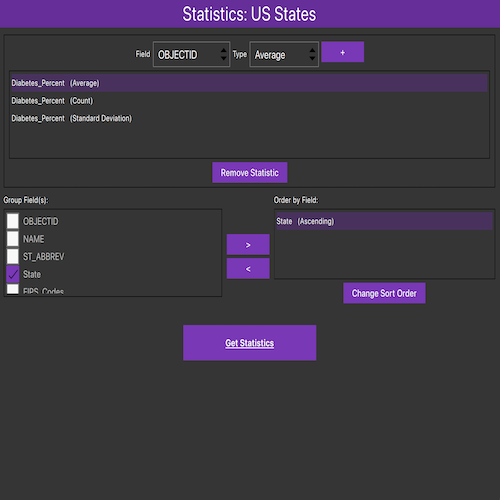
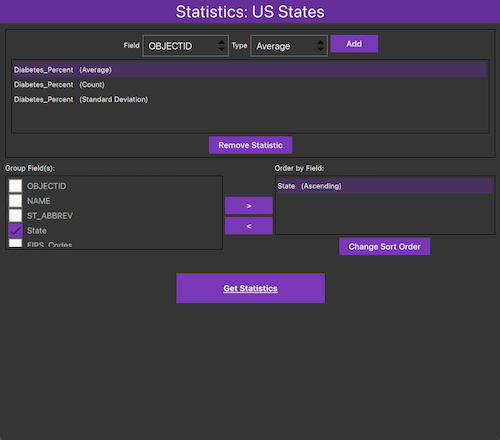
StatisticalQueryGroupSort(Analysis) - replaced "+" with "Add" due to alignment issues.

diff --git a/CppSamples/Analysis/StatisticalQueryGroupSort/OptionsPage.qml b/CppSamples/Analysis/StatisticalQueryGroupSort/OptionsPage.qml
@@ -138,7 +138,7 @@ Rectangle {
                         }
 
                         Button {
-                            text: "+"
+                            text: qsTr("Add")
                             onClicked: rootRectangle.addStatisticDefinition(fieldComboBox.currentText, statisticComboBox.currentText);
                         }
                     }
